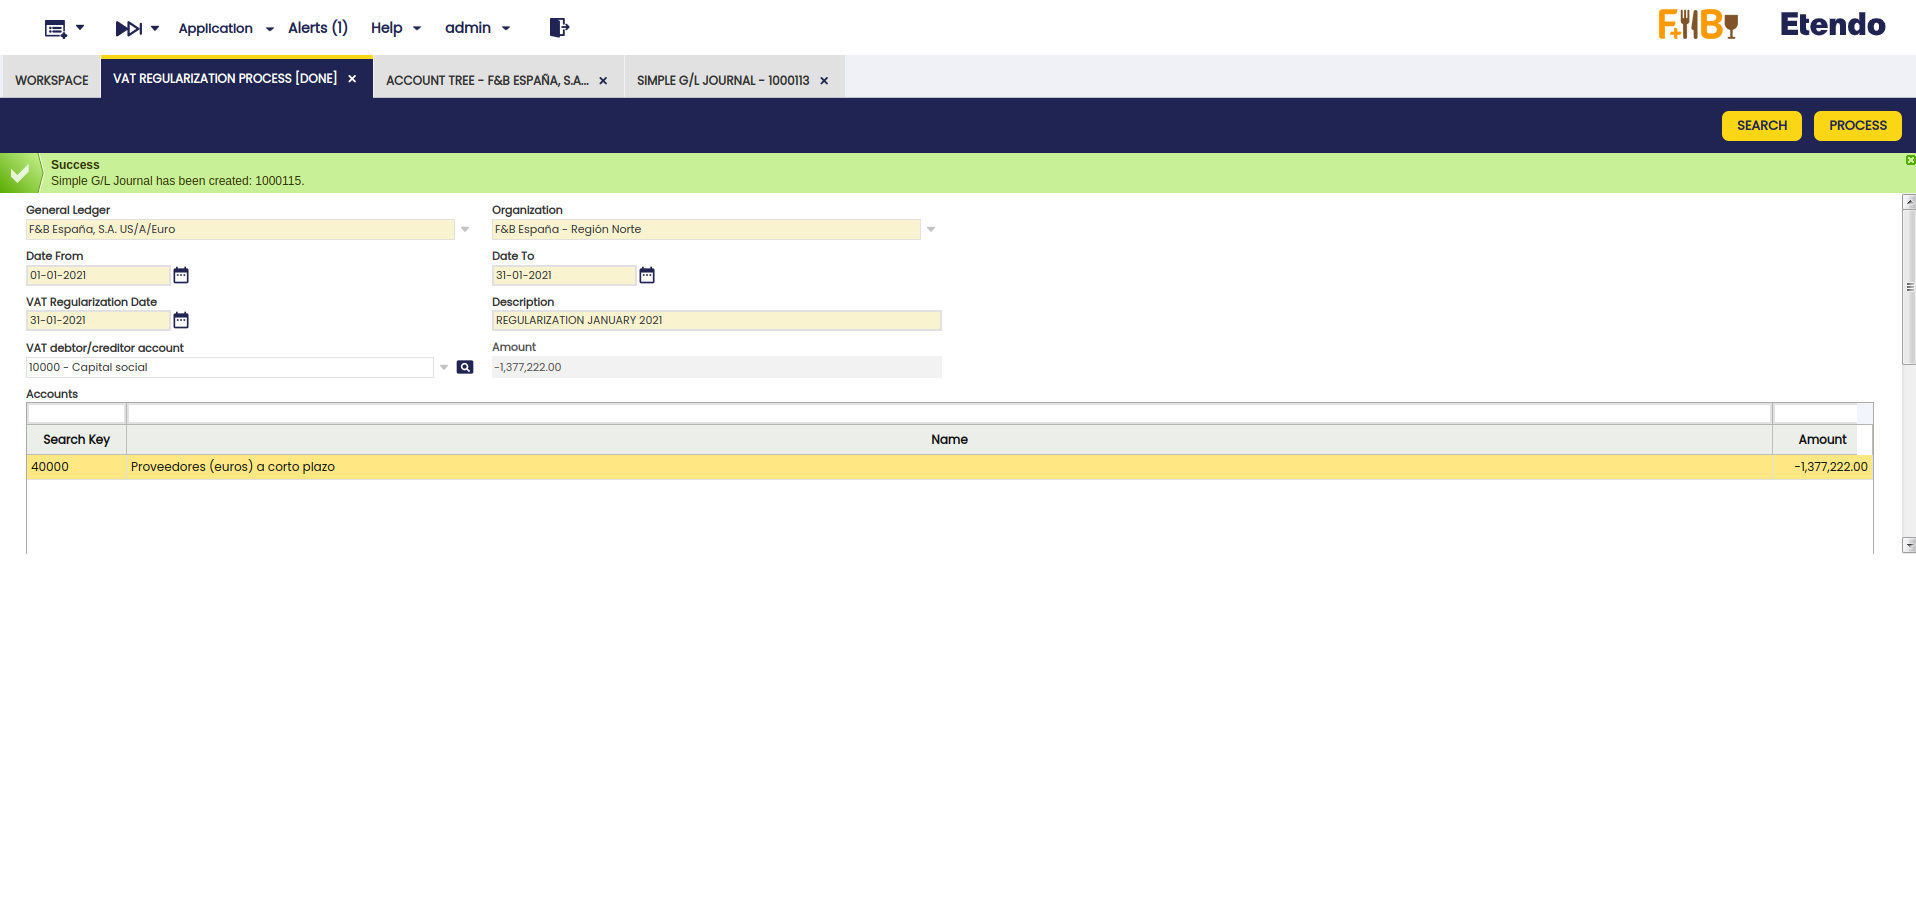
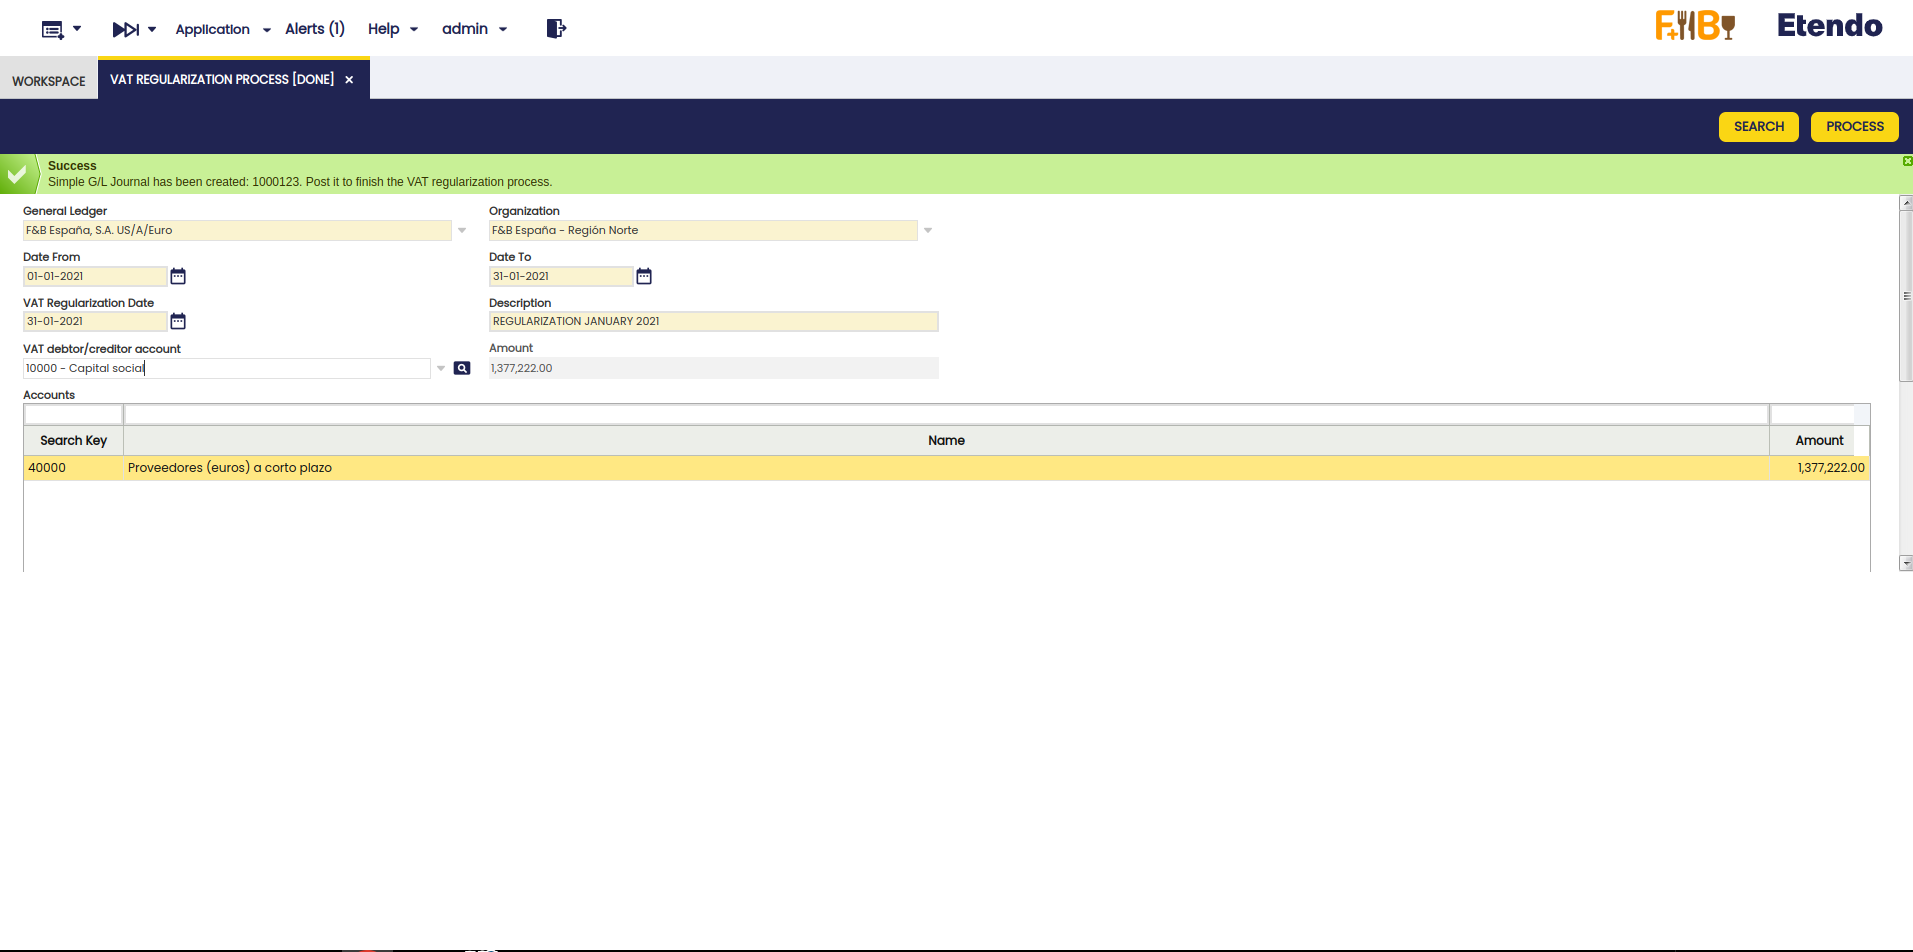
Feature EE-1016: Replace screenshots and solve conflicts

diff --git a/docs/user-guide/etendo-classic/basic-features/financial-management/accounting/transactions.md b/docs/user-guide/etendo-classic/basic-features/financial-management/accounting/transactions.md
@@ -772,8 +772,6 @@ These are the actions which can be executed from the header in order to create b
 
 ![](../../../../../assets/drive/1FStSn-NWyajDwRZQ6xki_owQLql2FOyy.png)
 
-
-
 ### Lines
 
 The user is able to add budget lines. Each line may refer to a specified period, business partner, product, etc.
@@ -783,8 +781,6 @@ The user is able to add budget lines. Each line may refer to a specified period,
 By using the necessary filters such as business partner, product, partner group, product category, etc, the user is able to generate budget reports in Excel to be used for specific purposes.  
 
 ![](../../../../../assets/drive/1Svc4hFmQRQA1s1IeQx9-po1KhrxpEeZ7.png)
-
-
 
 ## Not Posted Transaction Report
 
@@ -862,7 +858,7 @@ In order to enable an account to be part of the VAT regularization process, it i
 #### GL Journal Entry Generation
 1. Click the **Process** button to generate the simple GL journal entry.
 ![](../../../../../assets/user-guide/etendo-classic/basic-features/financial-management/accounting/transactions/vatregularization4.png)
-2. Go to the Simple G/L Journal window and filter the Document No. field by the number generated in the process (e.g. **1000115**).
+2. Go to the Simple G/L Journal window and filter the Document No. field by the number generated in the process (e.g. **1000123**).
 ![](../../../../../assets/user-guide/etendo-classic/basic-features/financial-management/accounting/transactions/vatregularization5.png)
 3. Here, verify that the header has been created with the corresponding lines.
 

diff --git a/docs/user-guide/etendo-classic/optional-features/bundles/financial-extensions/overview.md b/docs/user-guide/etendo-classic/optional-features/bundles/financial-extensions/overview.md
@@ -219,4 +219,3 @@ This functionality allows the user to adjust the accounts to ensure that the VAT
 
 !!!info
     For more information, visit the [VAT Regularization User Guide](../../../../../user-guide/etendo-classic/basic-features/financial-management/accounting/transactions.md#vat-regularization).
-    For more information, visit the [GL Journal user guide](../../../../../user-guide/etendo-classic/basic-features/financial-management/accounting/transactions.md#gl-journal) and the [Simple GL Journal user guide](../../../../../user-guide/etendo-classic/basic-features/financial-management/accounting/transactions.md#simple-gl-journal).
